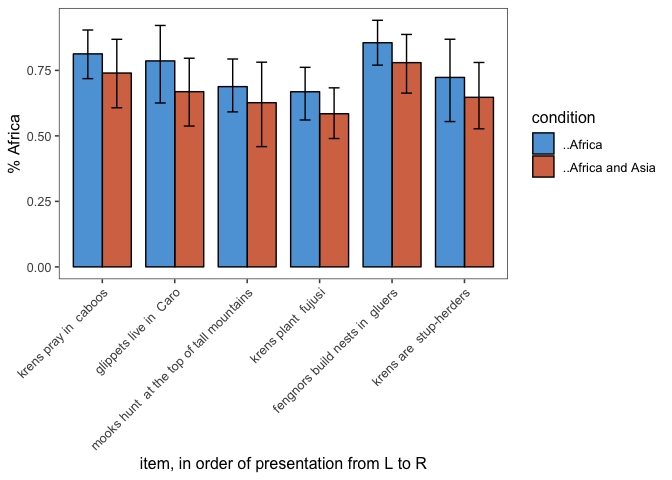
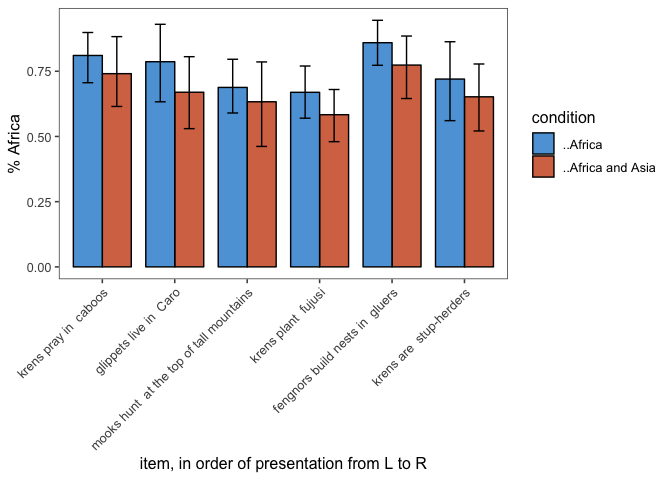
update analysis

diff --git a/analysis/elephants-1-pilot.md b/analysis/elephants-1-pilot.md
@@ -3,6 +3,9 @@ elephants-1-pilot
 MH Tessler
 1/14/2019
 
+[Link to
+experiment](http://www.mit.edu/~tessler/projects/elephants/experiments/elephants-1.html)
+
 ### Subject information
 
 | workerid | language      | enjoyment | age | gender | problems                                            | comments                                                                              |
@@ -121,8 +124,10 @@ collapsed across trials
 ## filler trials
 
 two of these used quantifiers (and thus we have strong idea about
-literal meaning) - “all aliens love Zorxon” - “no storms (or few) on Dax
-result in permanent damage…”
+literal meaning)
+
+  - “all aliens love Zorxon”
+  - “no storms (or few) on Dax result in permanent damage…”
 
 other two are generics about singular properties
 
@@ -131,6 +136,8 @@ other two are generics about singular properties
 ## critical trials (collapsed across item)
 
 ![](elephants-1-pilot_files/figure-gfm/unnamed-chunk-7-1.png)<!-- -->
+
+#### bootstrapped 95% confidence intervals
 
 ![](elephants-1-pilot_files/figure-gfm/unnamed-chunk-8-1.png)<!-- -->
 
